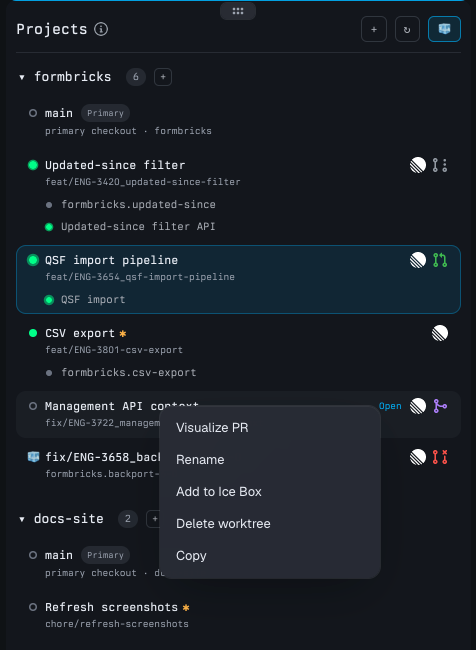
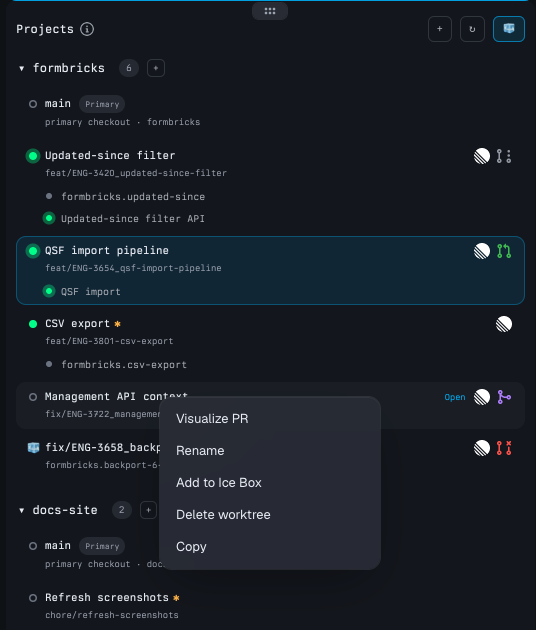
Slightly smaller type, smaller Projects heading, no header divider

diff --git a/styles.css b/styles.css
@@ -1,6 +1,8 @@
+/* Panel and forms run a touch smaller than Tern's base; every other size is relative to it. */
 [data-role='overseer.navigator'] {
   gap: 12px;
   color: var(--t1);
+  font-size: 0.93em;
 }
 [data-role='overseer.header'],
 [data-role='overseer.projectHeader'] {
@@ -9,17 +11,21 @@
   flex-wrap: wrap;
 }
 [data-role='overseer.header'] {
-  padding-bottom: 10px;
-  border-bottom: 1px solid color-mix(in srgb, var(--t4) 20%, transparent);
+  padding-bottom: 2px;
 }
 [data-role='overseer.projectHeader'] {
   padding-bottom: 4px;
 }
 [data-role='overseer.heading'],
 [data-role='overseer.formHeading'] {
-  font-size: 1.15em;
   font-weight: 650;
   color: var(--t1);
+}
+[data-role='overseer.heading'] {
+  font-size: 1em;
+}
+[data-role='overseer.formHeading'] {
+  font-size: 1.15em;
 }
 [data-role='overseer.titleGroup'] {
   align-items: center;
@@ -371,6 +377,7 @@
 [data-role='overseer.form'] {
   color: var(--t1);
   padding: 16px;
+  font-size: 0.93em;
 }
 [data-role='overseer.backLink'] {
   margin: -4px 0 10px -6px;
